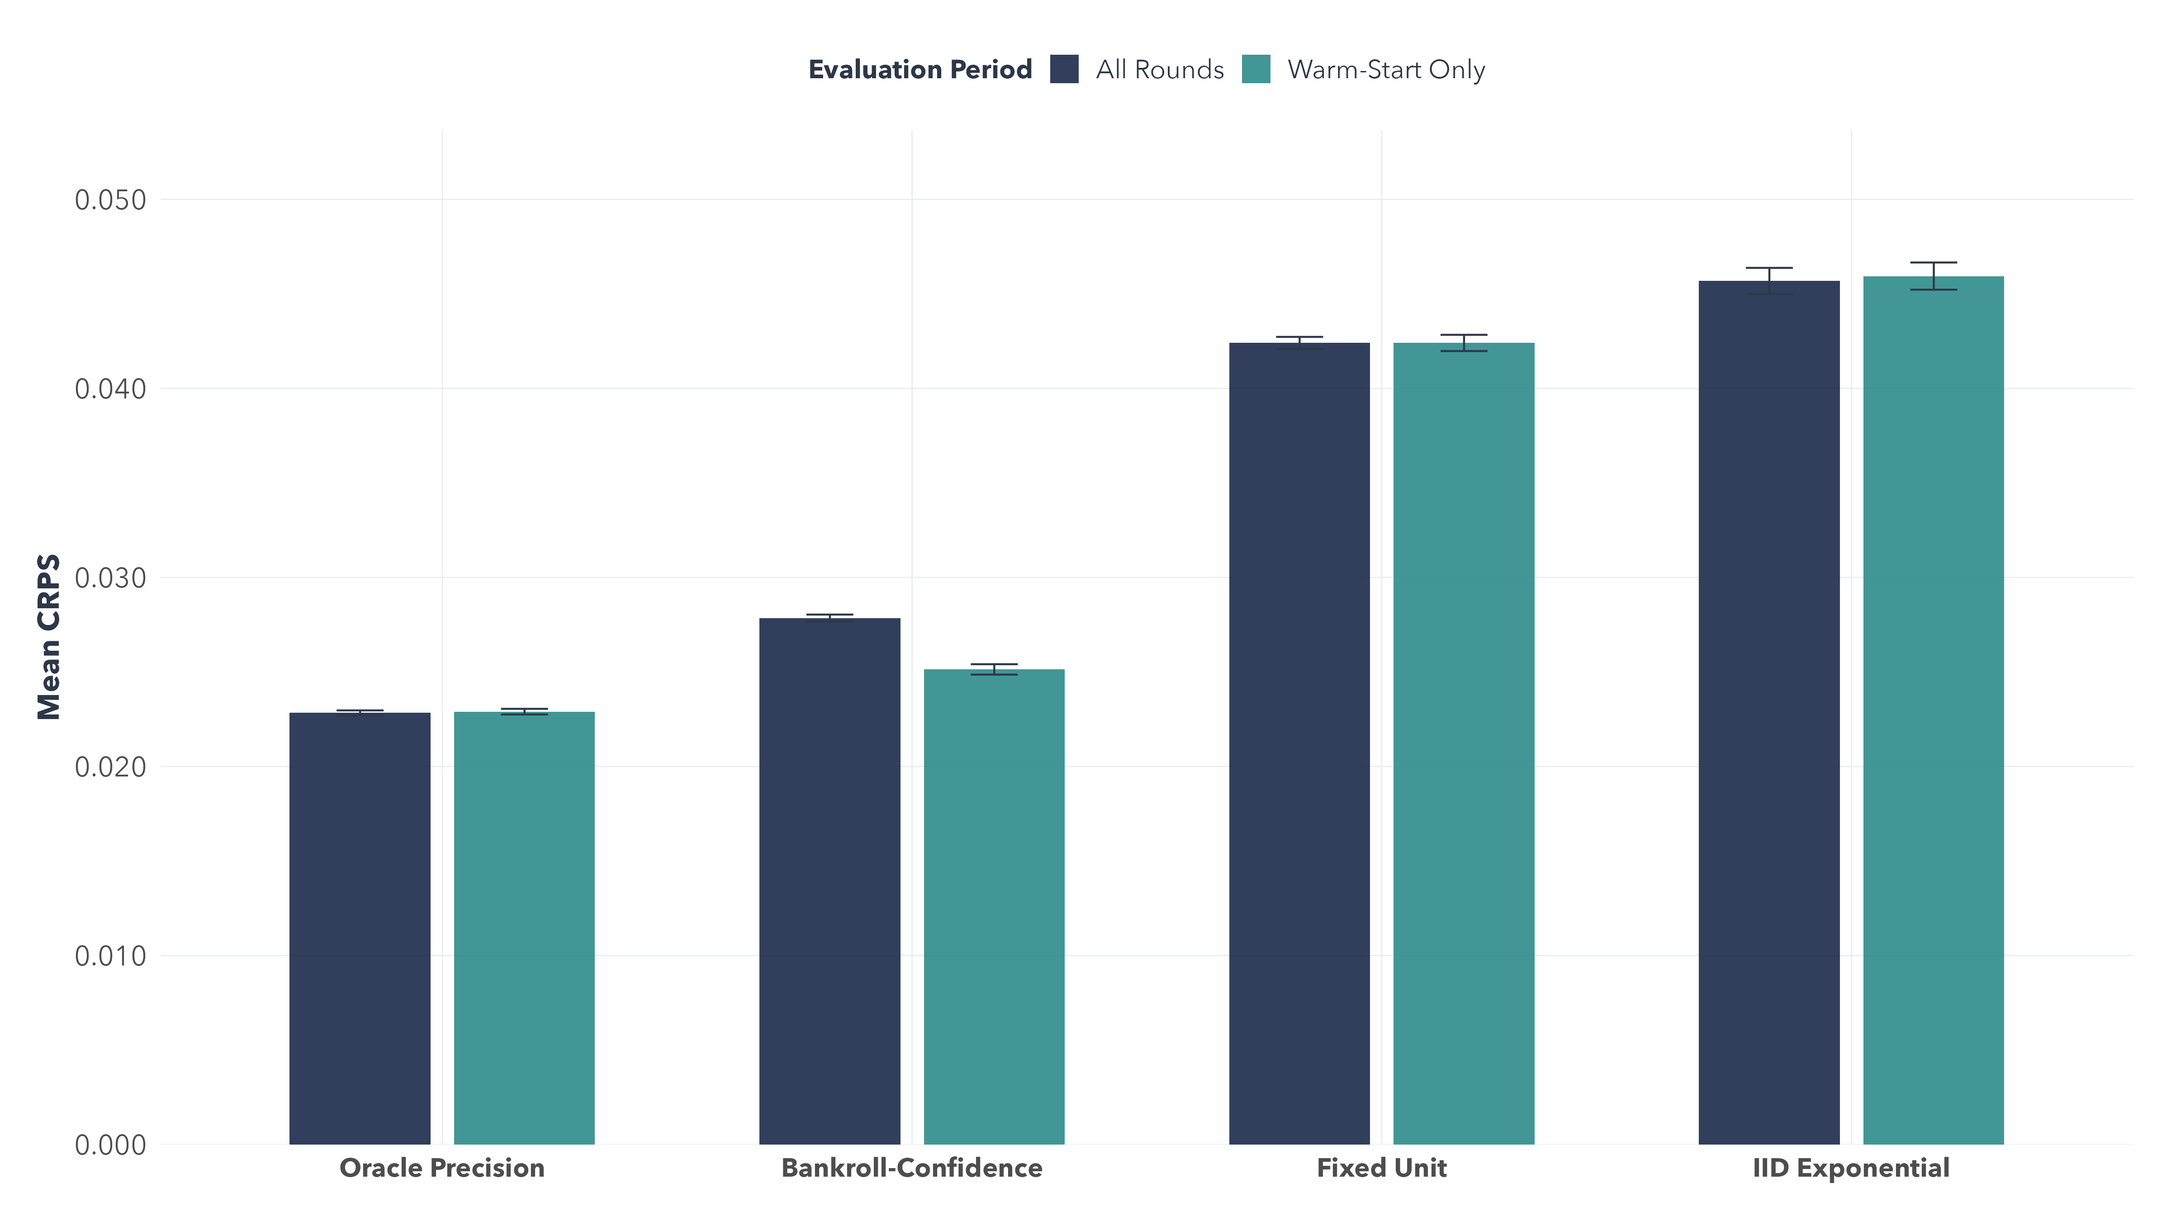
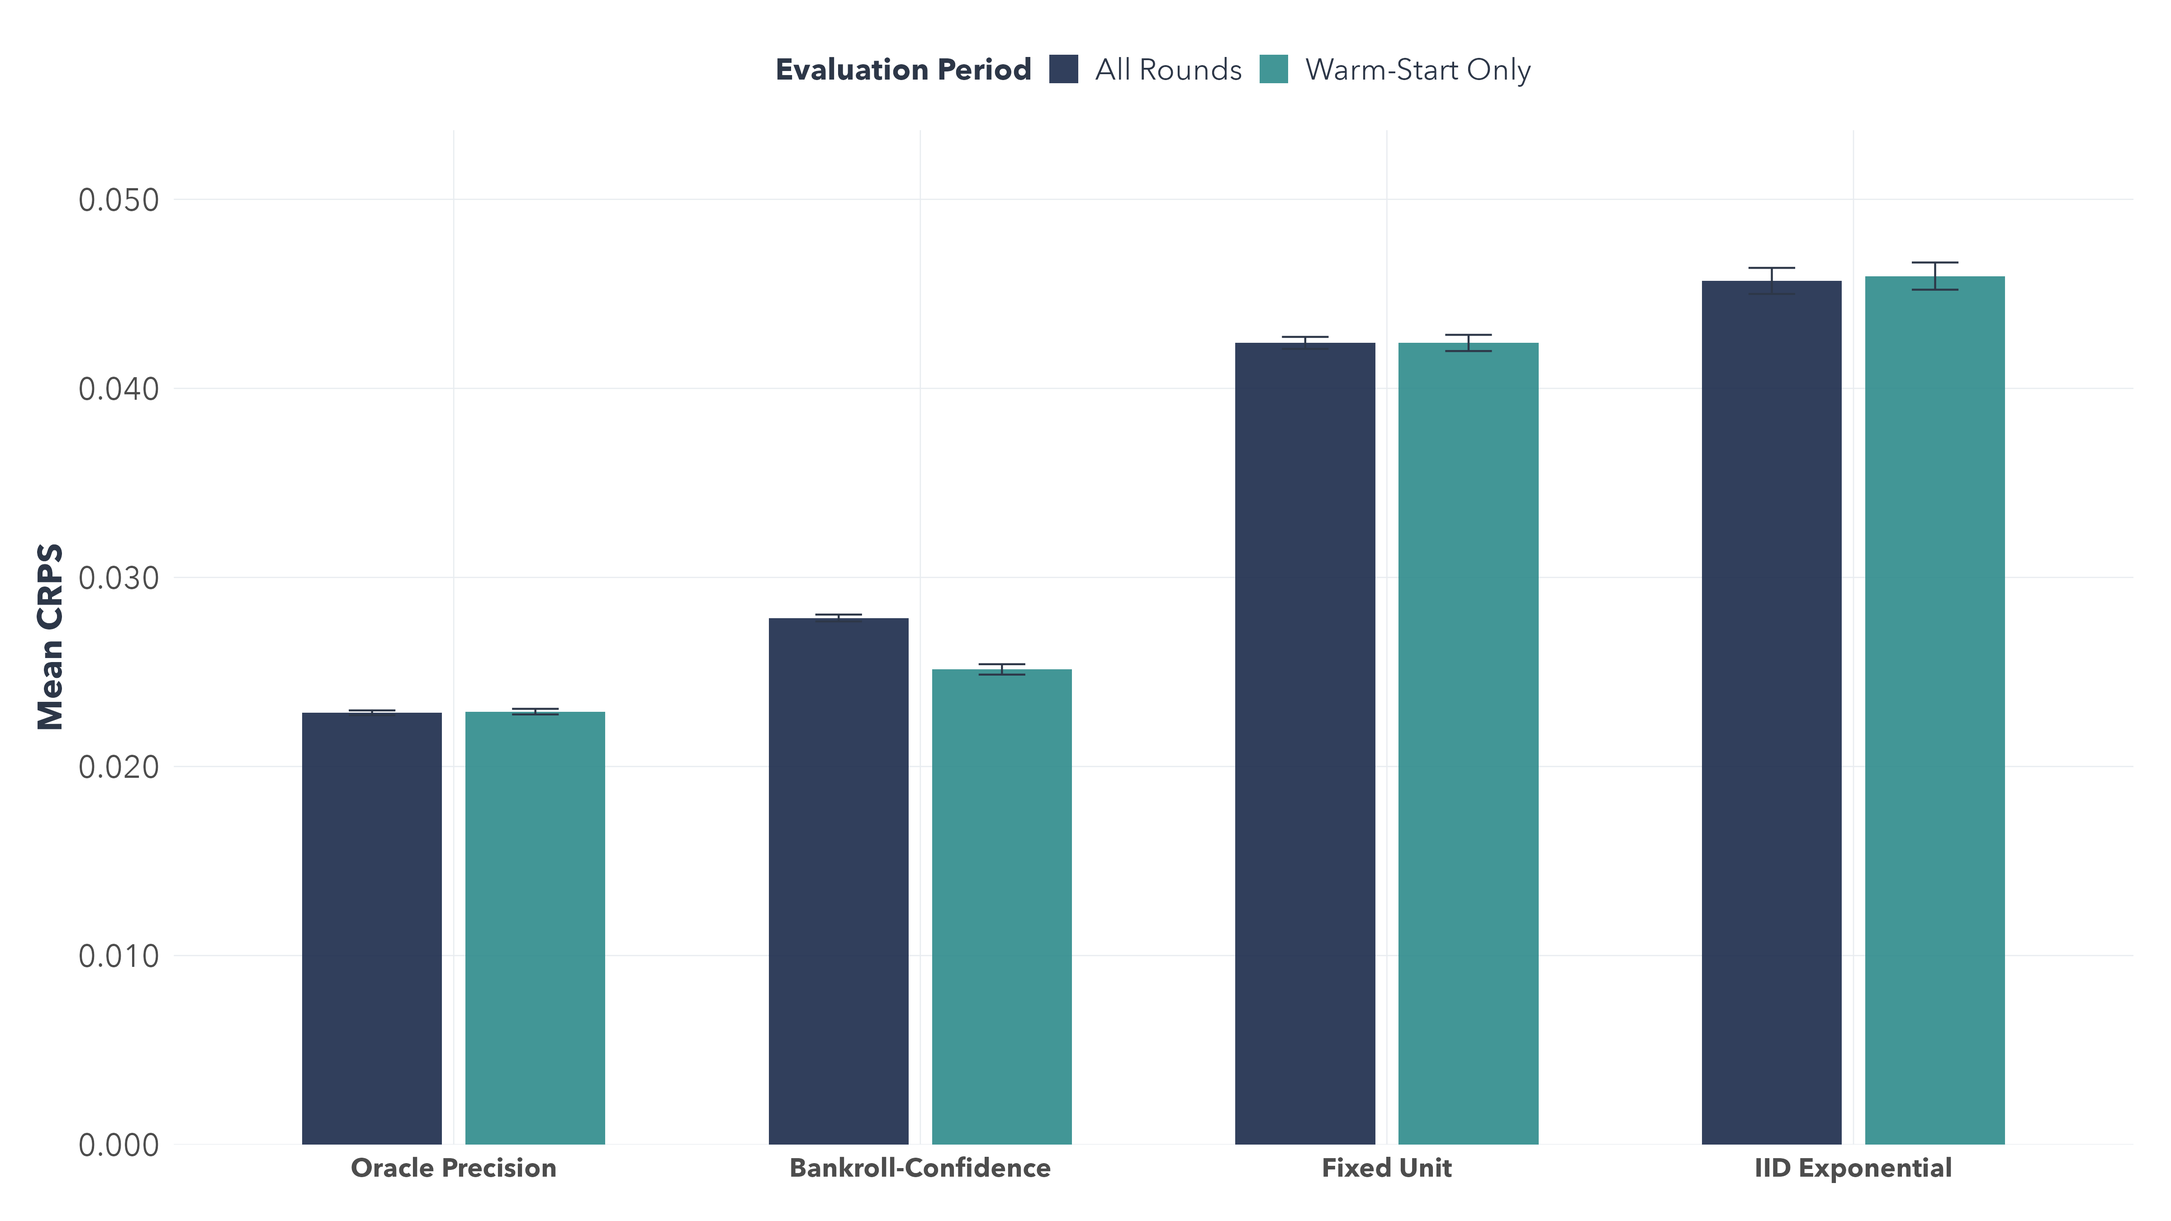
Visual polish: bigger graph text, remove Online Aggregation, colour comparison table, simplify guarantees, expand robustness + appendix
- PositioningMatrixSlide: remove generic 'Online Aggregation' node, keep 4 focused nodes, increase all SVG font sizes
- MechanismComparisonSlide: add alternating row tints, coloured column headers, navy left border accent, larger fonts
- CorrectnessSlide: remove redundant 'Result' column, simplify to 3-column layout (Status | Property | What it means)
- StrategicRobustnessSlide: add Reputation Gaming, Collusion, Risk-Averse Hedging rows, widen table, larger fonts
- AppendixSlide: increase figure maxHeight to 400, single-column layout, add 3 new Q&A items (inverse-variance, point forecasts, warm-up)
- forecasterData: remove Assimakopoulos & Nikolopoulos citation from Theta description
- R theme: increase axis text 15→17, axis title 16→18, legend text/title 14→16
- Regenerate all 9 R plots with larger text

diff --git a/dashboard/src/components/slides/PositioningMatrixSlide.tsx b/dashboard/src/components/slides/PositioningMatrixSlide.tsx
@@ -2,8 +2,8 @@ import { PALETTE, TYPOGRAPHY } from './shared/presentationConstants';
 
 /**
  * Slide 4: Where This Work Fits — 2x2 positioning matrix.
- * Bigger viewBox (1200x750), larger cards (260x90).
- * Connection lines start/end at card EDGES (not centers) to avoid overlap.
+ * 4 nodes: Lambert, Raja, Vitali & Pinson, THIS PROJECT.
+ * "Online Aggregation" removed — too generic.
  */
 
 interface MatrixNode {
@@ -17,11 +17,10 @@ interface MatrixNode {
 }
 
 const NODES: MatrixNode[] = [
-  { id: 'lambert', label: 'Lambert et al. / Raja et al.', citation: 'Self-financed, static', detail: '7 properties, uniqueness theorem', x: 22, y: 22 },
-  { id: 'online', label: 'Online Aggregation', citation: 'OGD, Hedge — adaptive, no payments', detail: 'Regret bounds, non-strategic', x: 78, y: 78 },
-
-  { id: 'vitali', label: 'Vitali & Pinson (2025)', citation: 'Adaptive, relative weights', detail: 'Online regression, Shapley payoff', x: 72, y: 55 },
-  { id: 'thesis', label: 'THIS PROJECT', citation: 'Adaptive + self-financed', detail: 'EWMA skill + self-financed settlement', x: 78, y: 20, isThesis: true },
+  { id: 'lambert', label: 'Lambert et al.', citation: 'Self-financed, static weights', detail: '7 properties, uniqueness theorem', x: 22, y: 25 },
+  { id: 'raja', label: 'Raja et al.', citation: 'Self-financed + client reward', detail: 'Payoff allocation, deposit-based', x: 22, y: 65 },
+  { id: 'vitali', label: 'Vitali & Pinson (2025)', citation: 'Adaptive, not self-financed', detail: 'Online regression, Shapley payoff', x: 72, y: 65 },
+  { id: 'thesis', label: 'THIS PROJECT', citation: 'Adaptive + self-financed', detail: 'EWMA skill + self-financed settlement', x: 75, y: 22, isThesis: true },
 ];
 
 export default function PositioningMatrixSlide() {
@@ -50,13 +49,11 @@ export default function PositioningMatrixSlide() {
     const halfW = cardW / 2;
     const halfH = cardH / 2;
 
-    // Calculate intersection with card rectangle
     if (dx === 0 && dy === 0) return { x: cx, y: cy };
 
     const absDx = Math.abs(dx);
     const absDy = Math.abs(dy);
 
-    // Check which edge the line intersects
     const scaleX = halfW / (absDx || 1);
     const scaleY = halfH / (absDy || 1);
     const scale = Math.min(scaleX, scaleY);
@@ -98,20 +95,20 @@ export default function PositioningMatrixSlide() {
         <line x1={chartX} y1={midY} x2={chartX + chartW} y2={midY} stroke={PALETTE.border} strokeWidth={2} strokeDasharray="8 6" />
 
         {/* X-axis label */}
-        <text x={chartX + 20} y={chartY + chartH + 40} fontFamily={TYPOGRAPHY.fontFamily} fontSize="16" fill={PALETTE.slate}>
+        <text x={chartX + 20} y={chartY + chartH + 40} fontFamily={TYPOGRAPHY.fontFamily} fontSize="18" fill={PALETTE.slate}>
           Static (no learning)
         </text>
-        <text x={chartX + chartW - 20} y={chartY + chartH + 40} textAnchor="end" fontFamily={TYPOGRAPHY.fontFamily} fontSize="16" fill={PALETTE.slate}>
+        <text x={chartX + chartW - 20} y={chartY + chartH + 40} textAnchor="end" fontFamily={TYPOGRAPHY.fontFamily} fontSize="18" fill={PALETTE.slate}>
           Adaptive (learns over time)
         </text>
-        <text x={chartX + chartW / 2} y={chartY + chartH + 40} textAnchor="middle" fontFamily={TYPOGRAPHY.fontFamily} fontSize="16" fill={PALETTE.slate} fontWeight={600}>
+        <text x={chartX + chartW / 2} y={chartY + chartH + 40} textAnchor="middle" fontFamily={TYPOGRAPHY.fontFamily} fontSize="18" fill={PALETTE.slate} fontWeight={600}>
           Adaptiveness →
         </text>
 
         {/* Y-axis label */}
         <text
           x={chartX - 40} y={chartY + chartH / 2}
-          fontFamily={TYPOGRAPHY.fontFamily} fontSize="16" fill={PALETTE.slate} fontWeight={600}
+          fontFamily={TYPOGRAPHY.fontFamily} fontSize="18" fill={PALETTE.slate} fontWeight={600}
           transform={`rotate(-90, ${chartX - 40}, ${chartY + chartH / 2})`}
           textAnchor="middle"
         >
@@ -124,26 +121,8 @@ export default function PositioningMatrixSlide() {
           const { cx: thesisCx, cy: thesisCy } = getCardCenter(thesis);
           const { cx: nodeCx, cy: nodeCy } = getCardCenter(node);
 
-          // Get edge points
           const startPt = getEdgePoint(node, thesisCx, thesisCy);
           const endPt = getEdgePoint(thesis, nodeCx, nodeCy);
-
-          // For the Online Aggregation node (bottom-right), curve the line to avoid passing through Vitali
-          if (node.id === 'online') {
-            const midX = Math.min(startPt.x, endPt.x) - 60;
-            const midY = (startPt.y + endPt.y) / 2;
-            return (
-              <path
-                key={`line-${node.id}`}
-                d={`M ${startPt.x} ${startPt.y} Q ${midX} ${midY} ${endPt.x} ${endPt.y}`}
-                fill="none"
-                stroke={PALETTE.border}
-                strokeWidth={1.5}
-                strokeDasharray="6 4"
-                opacity={0.6}
-              />
-            );
-          }
 
           return (
             <line
@@ -191,7 +170,7 @@ export default function PositioningMatrixSlide() {
                 y={cy - 16}
                 textAnchor="middle"
                 fontFamily={TYPOGRAPHY.fontFamily}
-                fontSize={node.isThesis ? '20' : '18'}
+                fontSize="20"
                 fontWeight={700}
                 fill={node.isThesis ? PALETTE.teal : PALETTE.navy}
               >
@@ -202,7 +181,7 @@ export default function PositioningMatrixSlide() {
                 y={cy + 8}
                 textAnchor="middle"
                 fontFamily={TYPOGRAPHY.fontFamily}
-                fontSize="15"
+                fontSize="16"
                 fill={PALETTE.slate}
               >
                 {node.citation}
@@ -212,7 +191,7 @@ export default function PositioningMatrixSlide() {
                 y={cy + 30}
                 textAnchor="middle"
                 fontFamily={TYPOGRAPHY.fontFamily}
-                fontSize="13"
+                fontSize="15"
                 fontStyle="italic"
                 fill={node.isThesis ? PALETTE.teal : PALETTE.purple}
               >

diff --git a/dashboard/src/components/slides/MechanismComparisonSlide.tsx b/dashboard/src/components/slides/MechanismComparisonSlide.tsx
@@ -54,6 +54,14 @@ const COMPARISON_DATA: ComparisonRow[] = [
 
 const COLUMN_HEADERS = ['Lambert et al.', 'Raja et al.', 'Vitali & Pinson', 'This Project'] as const;
 
+/** Subtle column header tint colours matching each work's identity */
+const HEADER_TINTS = [
+  'rgba(0, 62, 116, 0.08)',   // Lambert — imperial
+  'rgba(100, 116, 139, 0.08)', // Raja — slate
+  'rgba(124, 58, 237, 0.08)',  // Vitali — purple
+  'rgba(46, 139, 139, 0.10)',  // This Project — teal
+] as const;
+
 export default function MechanismComparisonSlide() {
   return (
     <SlideShell title="Mechanism Comparison" slideNumber={5}>
@@ -89,17 +97,18 @@ export default function MechanismComparisonSlide() {
           >
             {/* Empty cell for feature column */}
             <span />
-            {COLUMN_HEADERS.map((header) => (
+            {COLUMN_HEADERS.map((header, idx) => (
               <span
                 key={header}
                 style={{
-                  fontSize: '1.05rem',
+                  fontSize: '1.15rem',
                   fontWeight: 700,
                   color: PALETTE.navy,
                   fontFamily: TYPOGRAPHY.fontFamily,
                   textAlign: 'center',
                   padding: '6px 8px',
                   borderRadius: 6,
+                  background: HEADER_TINTS[idx],
                 }}
               >
                 {header}
@@ -121,15 +130,19 @@ export default function MechanismComparisonSlide() {
                   i < COMPARISON_DATA.length - 1
                     ? `1px solid ${PALETTE.border}`
                     : 'none',
+                background: i % 2 === 1 ? 'rgba(0,0,0,0.02)' : 'transparent',
+                borderRadius: 4,
               }}
             >
               {/* Feature label */}
               <span
                 style={{
-                  fontSize: '1.2rem',
+                  fontSize: '1.3rem',
                   fontWeight: 600,
                   color: PALETTE.navy,
                   fontFamily: TYPOGRAPHY.fontFamily,
+                  borderLeft: `4px solid ${PALETTE.navy}`,
+                  paddingLeft: 12,
                 }}
               >
                 {row.feature}
@@ -139,7 +152,7 @@ export default function MechanismComparisonSlide() {
               <div style={{ textAlign: 'center' }}>
                 <span
                   style={{
-                    fontSize: '1.05rem',
+                    fontSize: '1.1rem',
                     color: PALETTE.charcoal,
                     fontFamily: TYPOGRAPHY.fontFamily,
                   }}
@@ -152,7 +165,7 @@ export default function MechanismComparisonSlide() {
               <div style={{ textAlign: 'center' }}>
                 <span
                   style={{
-                    fontSize: '1.05rem',
+                    fontSize: '1.1rem',
                     color: PALETTE.charcoal,
                     fontFamily: TYPOGRAPHY.fontFamily,
                   }}
@@ -165,7 +178,7 @@ export default function MechanismComparisonSlide() {
               <div style={{ textAlign: 'center' }}>
                 <span
                   style={{
-                    fontSize: '1.05rem',
+                    fontSize: '1.1rem',
                     color: PALETTE.charcoal,
                     fontFamily: TYPOGRAPHY.fontFamily,
                   }}
@@ -178,7 +191,7 @@ export default function MechanismComparisonSlide() {
               <div style={{ textAlign: 'center' }}>
                 <span
                   style={{
-                    fontSize: '1.05rem',
+                    fontSize: '1.1rem',
                     color: PALETTE.charcoal,
                     fontFamily: TYPOGRAPHY.fontFamily,
                   }}

diff --git a/dashboard/src/components/slides/CorrectnessSlide.tsx b/dashboard/src/components/slides/CorrectnessSlide.tsx
@@ -3,12 +3,13 @@ import { PALETTE, TYPOGRAPHY } from './shared/presentationConstants';
 
 /**
  * Slide 11: Mechanism Guarantees — table with pass indicators (SVG checkmarks, no emojis).
+ * 3-column layout: Status | Property | What it means.
+ * "Result" column removed — redundant with "What it means".
  */
 
 interface GuaranteeRow {
   property: string;
   meaning: string;
-  status: string;
   pass: boolean;
 }
 
@@ -16,25 +17,21 @@ const GUARANTEES: GuaranteeRow[] = [
   {
     property: 'Budget gap',
     meaning: 'Self-financed — no external subsidy needed',
-    status: 'Machine precision',
     pass: true,
   },
   {
     property: 'Mean profit',
     meaning: 'Zero-sum — no money created or destroyed',
-    status: 'Machine precision',
     pass: true,
   },
   {
     property: 'Sybil ratio',
     meaning: 'No advantage from splitting',
-    status: '= 1.0 (exact)',
     pass: true,
   },
   {
     property: 'Noise-skill corr.',
     meaning: 'Skilled forecasters reliably rewarded',
-    status: 'r = -0.98',
     pass: true,
   },
 ];
@@ -97,7 +94,7 @@ export default function CorrectnessSlide() {
           <div
             style={{
               display: 'grid',
-              gridTemplateColumns: '48px 170px 1fr 160px',
+              gridTemplateColumns: '48px 170px 1fr',
               gap: 16,
               paddingBottom: 14,
               borderBottom: `2px solid ${PALETTE.border}`,
@@ -113,9 +110,6 @@ export default function CorrectnessSlide() {
             <span style={{ fontSize: '1rem', fontWeight: 700, color: PALETTE.slate, fontFamily: TYPOGRAPHY.fontFamily }}>
               What it means
             </span>
-            <span style={{ fontSize: '1rem', fontWeight: 700, color: PALETTE.slate, fontFamily: TYPOGRAPHY.fontFamily, textAlign: 'right' }}>
-              Result
-            </span>
           </div>
 
           {GUARANTEES.map((row, i) => (
@@ -123,7 +117,7 @@ export default function CorrectnessSlide() {
               key={row.property}
               style={{
                 display: 'grid',
-                gridTemplateColumns: '48px 170px 1fr 160px',
+                gridTemplateColumns: '48px 170px 1fr',
                 gap: 16,
                 alignItems: 'center',
                 padding: '18px 0 18px 0',
@@ -155,18 +149,6 @@ export default function CorrectnessSlide() {
                 }}
               >
                 {row.meaning}
-              </span>
-              <span
-                style={{
-                  fontSize: '1.15rem',
-                  fontWeight: 600,
-                  color: PALETTE.charcoal,
-                  fontFamily: TYPOGRAPHY.fontFamily,
-                  fontVariantNumeric: 'tabular-nums',
-                  textAlign: 'right',
-                }}
-              >
-                {row.status}
               </span>
             </div>
           ))}

diff --git a/dashboard/src/components/slides/AppendixSlide.tsx b/dashboard/src/components/slides/AppendixSlide.tsx
@@ -48,7 +48,23 @@ const QA_ITEMS: QAItem[] = [
     answer:
       'Each round is O(N) where N is the number of forecasters. The EWMA update, skill gate, and Lambert settlement are all linear. The full 17,544-round Elia experiment runs in under 30 seconds on a laptop.',
   },
+  {
+    question: 'How does this compare to simple inverse-variance weighting?',
+    answer:
+      'Inverse-variance weighting uses forecast spread as a proxy for quality. Our mechanism learns skill from realised accuracy over time, which is more informative. On Elia wind, the mechanism outperforms inverse-variance by a wide margin.',
+  },
+  {
+    question: 'Could this work with non-probabilistic (point) forecasts?',
+    answer:
+      'The mechanism requires probabilistic forecasts (quantiles) because the CRPS scoring rule needs a full distribution. Point forecasts could be converted to distributions via residual resampling, which is what we do for the 7 models.',
+  },
+  {
+    question: 'What about the warm-up period?',
+    answer:
+      'The first 200 rounds are a warm-up where all forecasters have equal skill. This is needed for the EWMA to accumulate enough history. Results are reported on the post-warm-up period only.',
+  },
 ];
+
 
 /* ─── Extra figures references ────────────────────────────────── */
 
@@ -122,7 +138,7 @@ function FigureCard({ label, file }: { label: string; file: string }) {
         alt={label}
         style={{
           maxWidth: '100%',
-          maxHeight: 220,
+          maxHeight: 400,
           objectFit: 'contain',
           borderRadius: 8,
         }}
@@ -230,7 +246,7 @@ export default function AppendixSlide() {
           <div
             style={{
               display: 'grid',
-              gridTemplateColumns: '1fr 1fr',
+              gridTemplateColumns: '1fr',
               gap: 20,
             }}
           >

diff --git a/dashboard/src/components/slides/StrategicRobustnessSlide.tsx b/dashboard/src/components/slides/StrategicRobustnessSlide.tsx
@@ -17,6 +17,9 @@ const ATTACKS: AttackRow[] = [
   { attack: 'Sybil (diversified)', outcome: 'Small advantage (~6%)', pass: false },
   { attack: 'Arbitrage', outcome: 'No sustained profit', pass: true },
   { attack: 'Strategic Deposit', outcome: 'No advantage', pass: true },
+  { attack: 'Reputation Gaming', outcome: 'Detected within ~20 rounds', pass: true },
+  { attack: 'Collusion', outcome: 'Limited by individual skill gates', pass: true },
+  { attack: 'Risk-Averse Hedging', outcome: 'Minimal impact on aggregate', pass: true },
 ];
 
 /** SVG checkmark */
@@ -84,7 +87,7 @@ export default function StrategicRobustnessSlide() {
             padding: '28px 44px',
             boxShadow: '0 2px 12px rgba(0,0,0,0.04)',
             width: '100%',
-            maxWidth: 720,
+            maxWidth: 800,
           }}
         >
           {/* Header */}
@@ -118,7 +121,7 @@ export default function StrategicRobustnessSlide() {
             >
               <span
                 style={{
-                  fontSize: '1.25rem',
+                  fontSize: '1.3rem',
                   fontWeight: 600,
                   color: PALETTE.navy,
                   fontFamily: TYPOGRAPHY.fontFamily,
@@ -129,7 +132,7 @@ export default function StrategicRobustnessSlide() {
               <div style={{ display: 'flex', alignItems: 'center', gap: 12 }}>
                 <span
                   style={{
-                    fontSize: '1.25rem',
+                    fontSize: '1.2rem',
                     fontWeight: 700,
                     color: PALETTE.charcoal,
                     fontFamily: TYPOGRAPHY.fontFamily,

diff --git a/dashboard/src/components/slides/forecasterData.ts b/dashboard/src/components/slides/forecasterData.ts
@@ -51,7 +51,7 @@ export const FORECASTERS: ForecasterData[] = [
     name: 'Theta',
     type: 'Statistical',
     description:
-      'Theta method (Assimakopoulos & Nikolopoulos 2000). Decomposes into trend components.',
+      'Theta method — decomposes the series into trend components.',
     strengths: 'Strong performance on M3 competition data.',
     weaknesses: 'Limited theoretical justification; struggles with complex seasonality.',
   },
